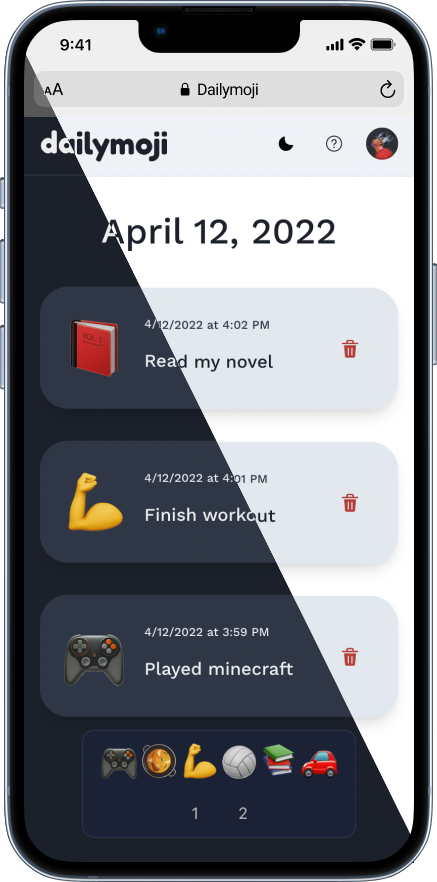
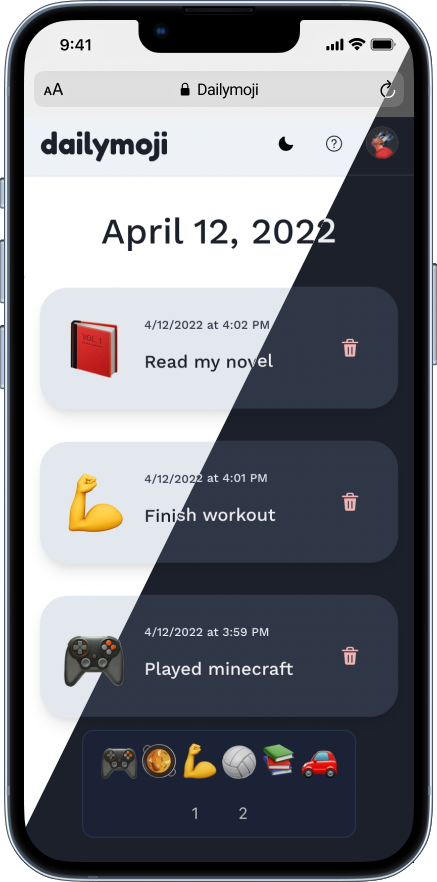
add: new preview assets

diff --git a/src/components/Landing2.js b/src/components/Landing2.js
@@ -91,7 +91,7 @@ export default function SplitWithImage() {
             rounded={"md"}
             alt={"feature image"}
             src={
-              "https://raw.githubusercontent.com/virejdasani/Dailymoji/main/assets/img/iphone-dark-dailymoji-preview.png"
+              "https://raw.githubusercontent.com/virejdasani/Dailymoji/main/assets/img/iphone-dailymoji-preview.png"
             }
             objectFit={"cover"}
           />
